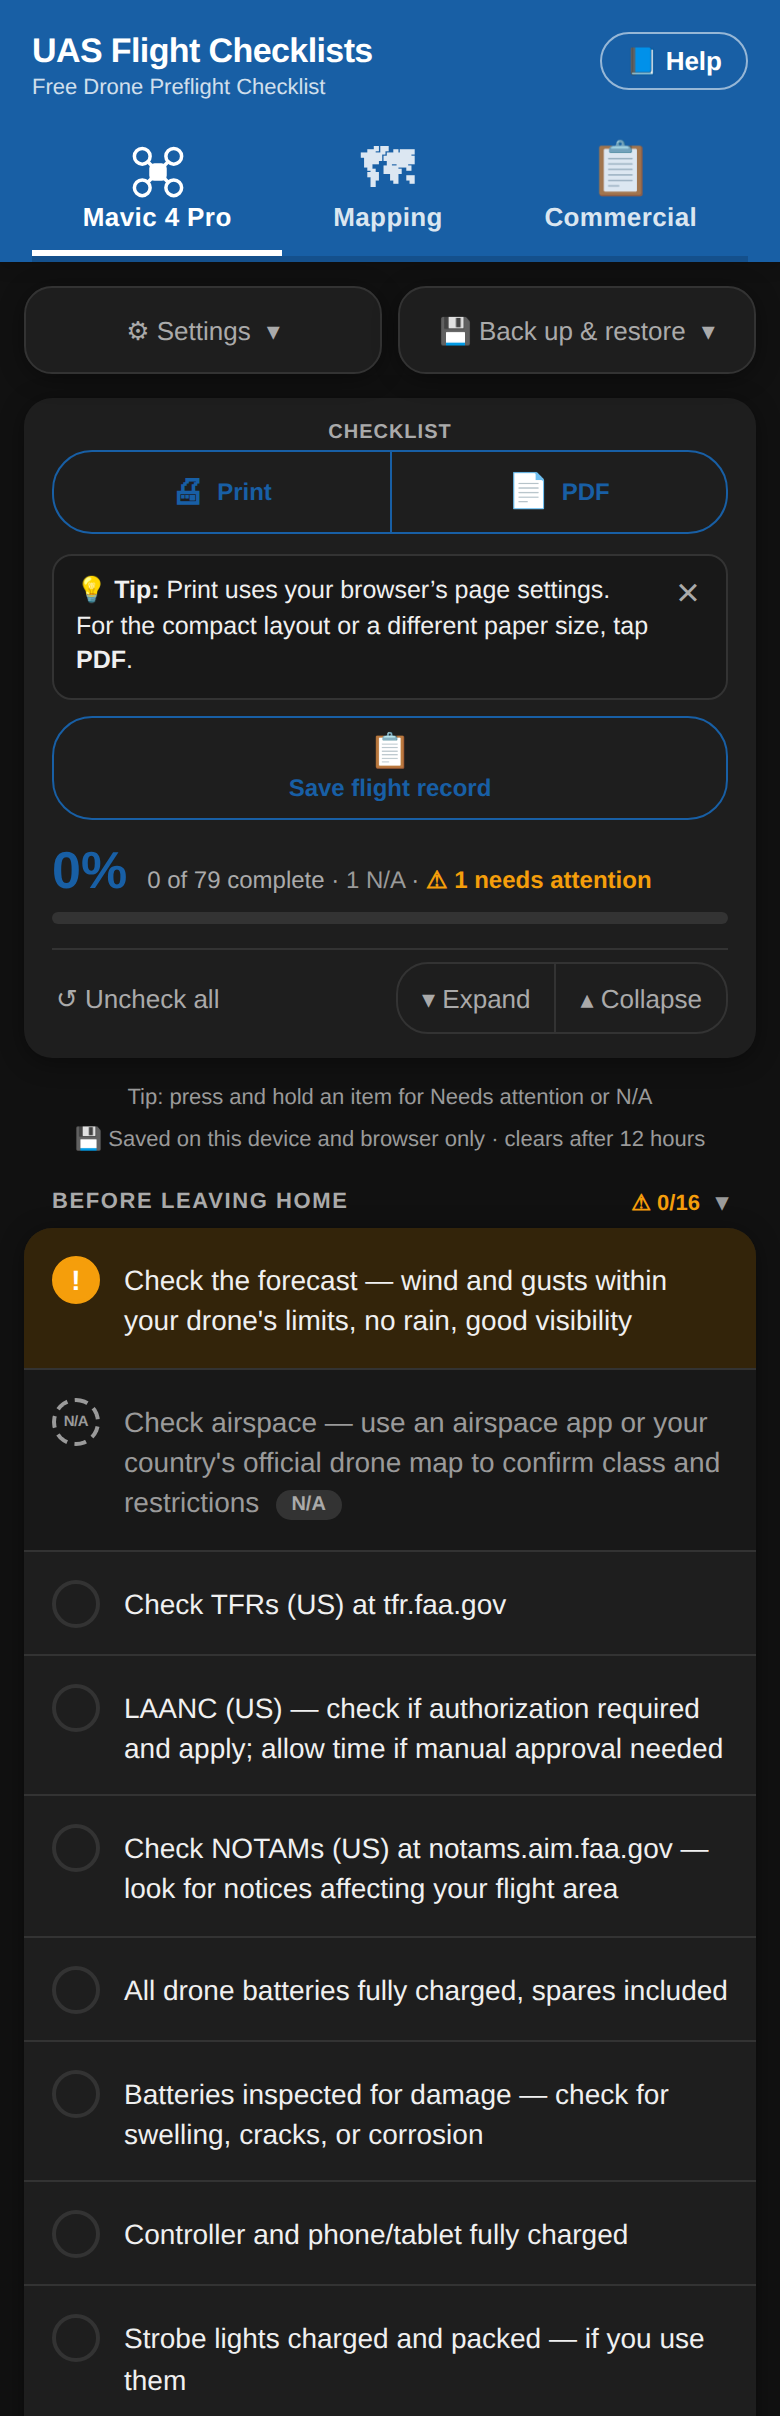
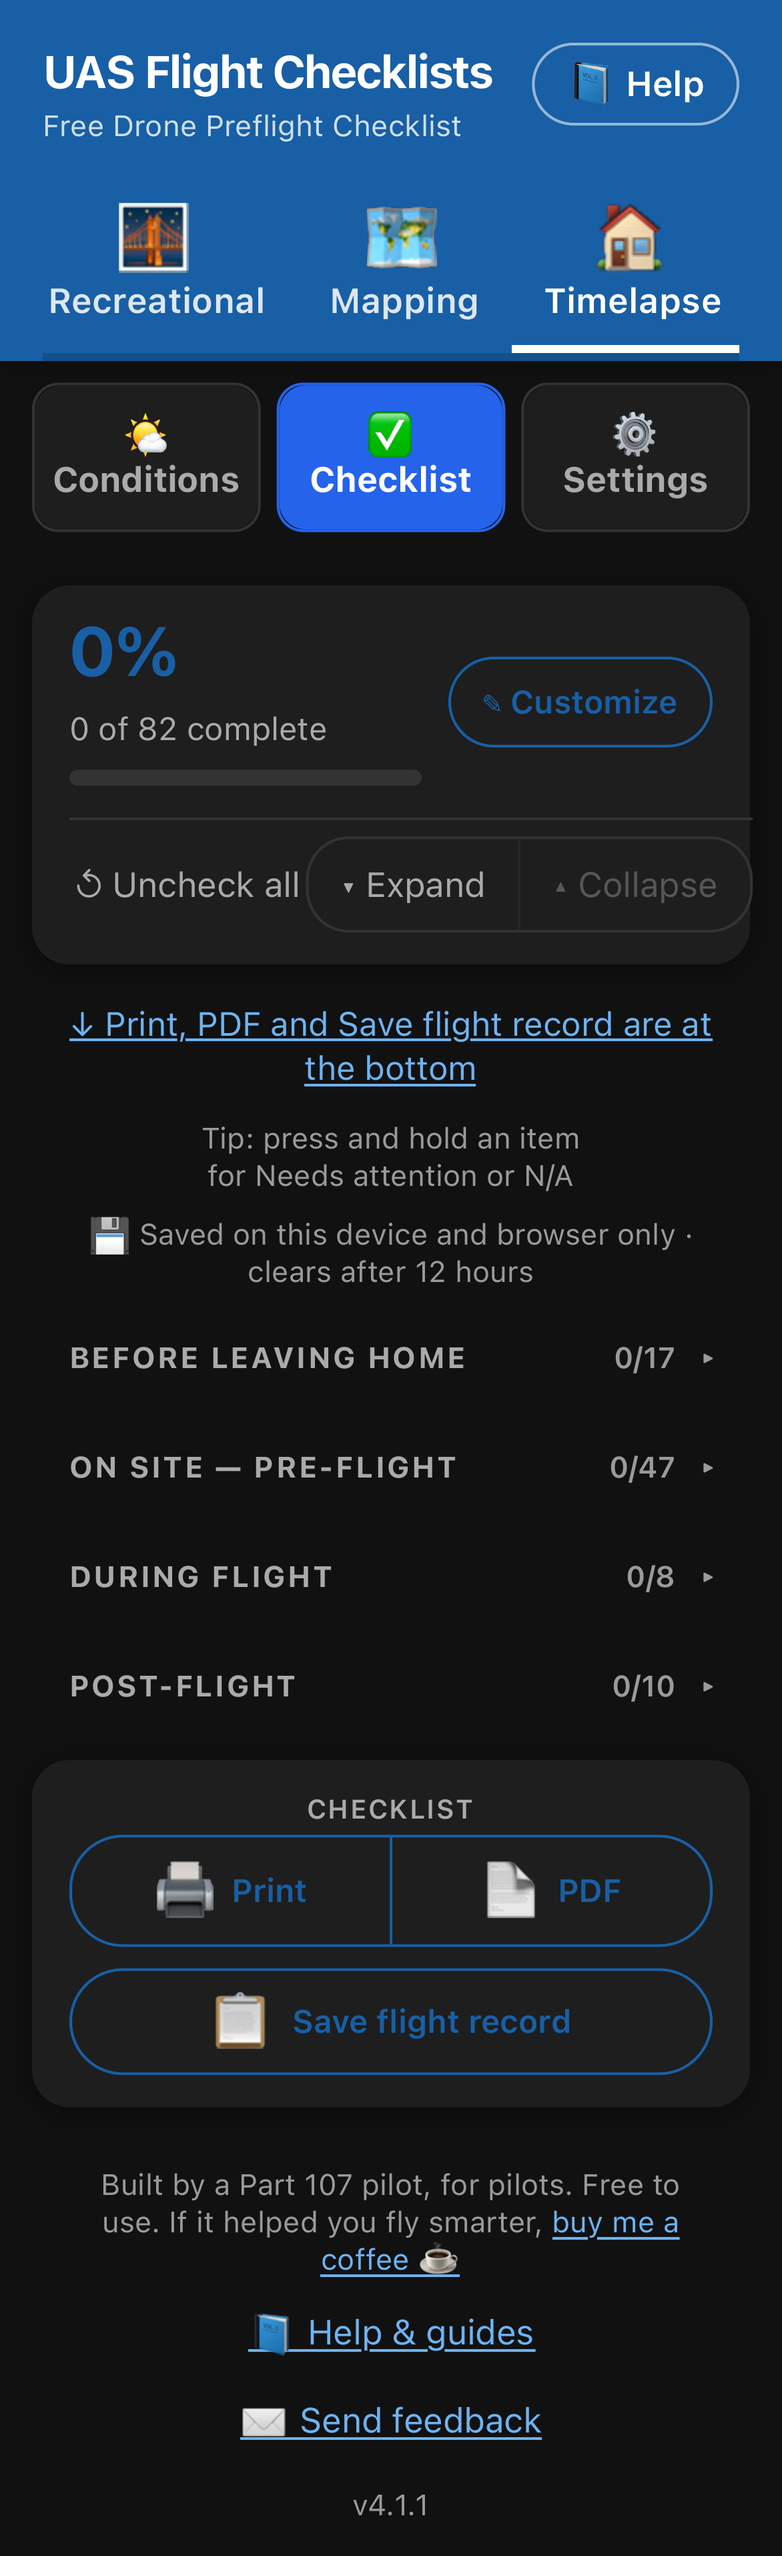
Screenshots: new Checklist screenshots (three-tab layout, light and dark); README alt text
Claude-Session: https://claude.ai/code/session_01Rz8jPx2t2VhtvoTjPcbY9J

diff --git a/README.md b/README.md
@@ -15,7 +15,7 @@ A free, mobile-friendly drone preflight checklist web app with live weather cond
 <table>
   <tr>
     <td align="center" width="50%"><picture><source media="(prefers-color-scheme: dark)" srcset="screenshots/08-conditions-dark.png"><img src="screenshots/08-conditions-light.png" alt="The Conditions tab with Conditions, Checklist and Settings tabs on top, then live preflight conditions for Miami: wind with Windier nearby, cloud ceiling, precipitation, visibility, the 10-day wind outlook, and the Airspace chart, FAA grid map, TFRs and NOTAMs buttons with nearby airport codes" width="170"></picture><br><sub><b>Live conditions</b></sub></td>
-    <td align="center" width="50%"><picture><source media="(prefers-color-scheme: dark)" srcset="screenshots/01-checklist-dark.png"><img src="screenshots/01-checklist-light.png" alt="Checklist with progress bar, Before leaving home items and checked boxes" width="170"></picture><br><sub><b>Checklist</b></sub></td>
+    <td align="center" width="50%"><picture><source media="(prefers-color-scheme: dark)" srcset="screenshots/01-checklist-dark.png"><img src="screenshots/01-checklist-light.png" alt="The Checklist tab with custom mission tabs, the percentage and a Customize button, the four sections folded, then a card with Print, PDF and Save flight record, and the footer with the version" width="170"></picture><br><sub><b>Checklist</b></sub></td>
   </tr>
   <tr>
     <td align="center" width="50%"><picture><source media="(prefers-color-scheme: dark)" srcset="screenshots/05-ready-to-fly-dark.png"><img src="screenshots/05-ready-to-fly-light.png" alt="Ready to fly banner after the pre-flight sections are complete" width="170"></picture><br><sub><b>&quot;Ready to fly&quot; banner</b></sub></td>
